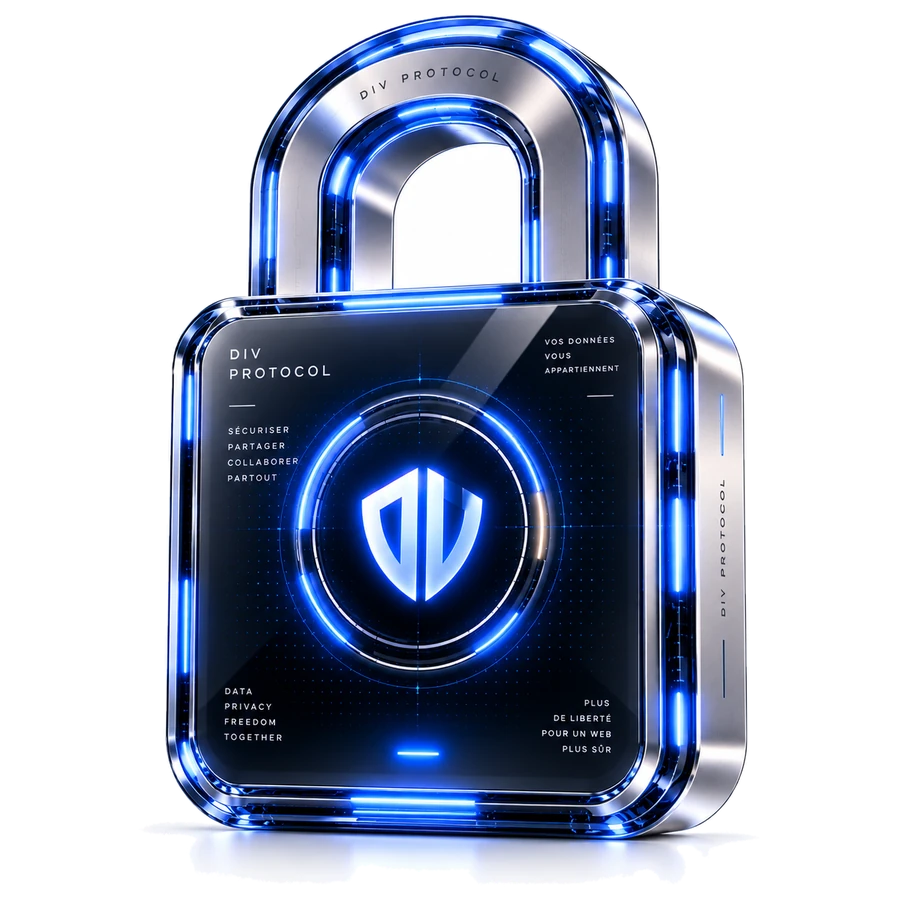
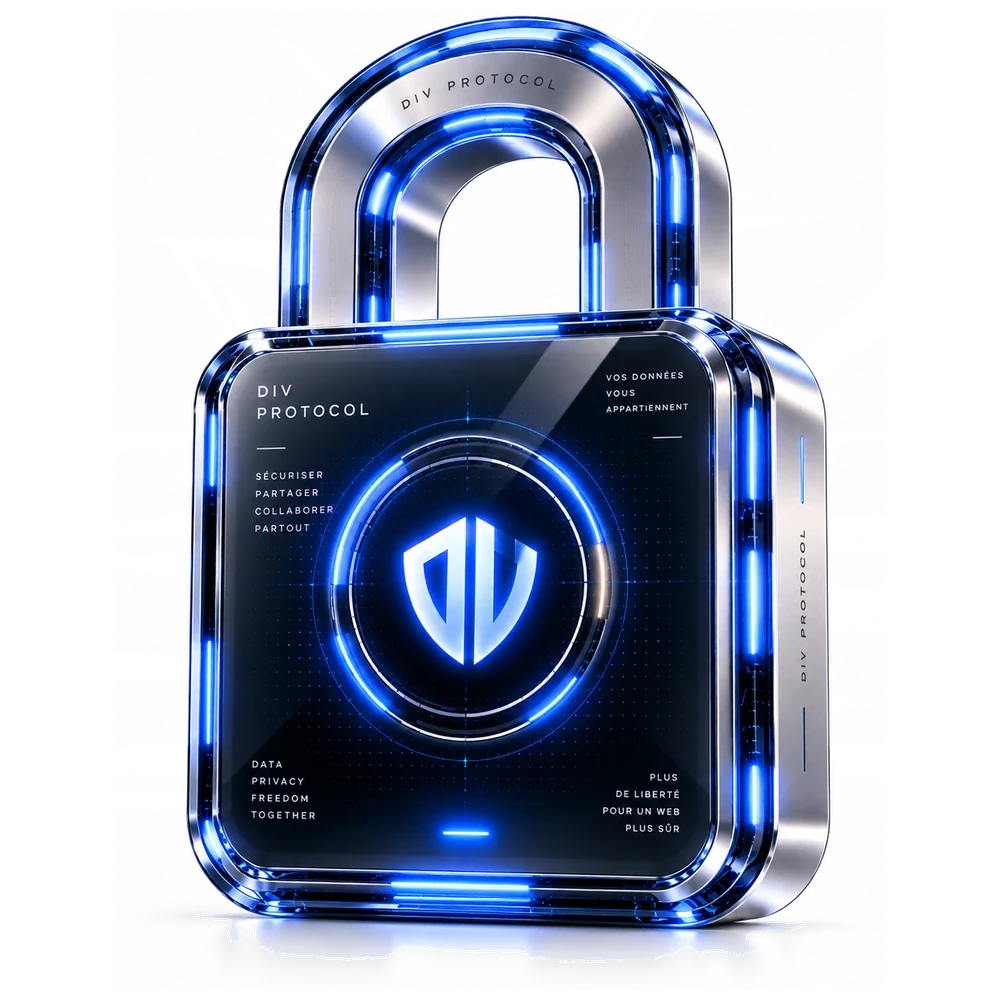
Cadenas 3D : l ombre au sol d origine est respectee
- Dematage au lieu d un seuil : l ombre devient alpha partiel, plus rognee
- Silhouette detectee par composante connexe remplie, le socle reste intact
- Ombre CSS retiree, elle doublonnait celle de l image

Changed region(s): [[0.1867, 0.0, 0.84, 0.9644]]

diff --git a/divprotocol-refonte/index.html b/divprotocol-refonte/index.html
@@ -420,8 +420,7 @@ button{font:inherit;color:inherit;background:none;border:0;cursor:pointer}
 
 
 /* ——— Cadenas DIV ——— */
-.lock3d{display:block;width:100%;max-width:440px;height:auto;margin:0 auto;
-  filter:drop-shadow(0 24px 44px rgba(12,20,64,.20))}
+.lock3d{display:block;width:100%;max-width:460px;height:auto;margin:0 auto}
 /* ——— Ils parlent de nous : bandeau de logos ——— */
 .mq{position:relative;overflow:hidden;
   -webkit-mask-image:linear-gradient(90deg,transparent,#000 9%,#000 91%,transparent);
